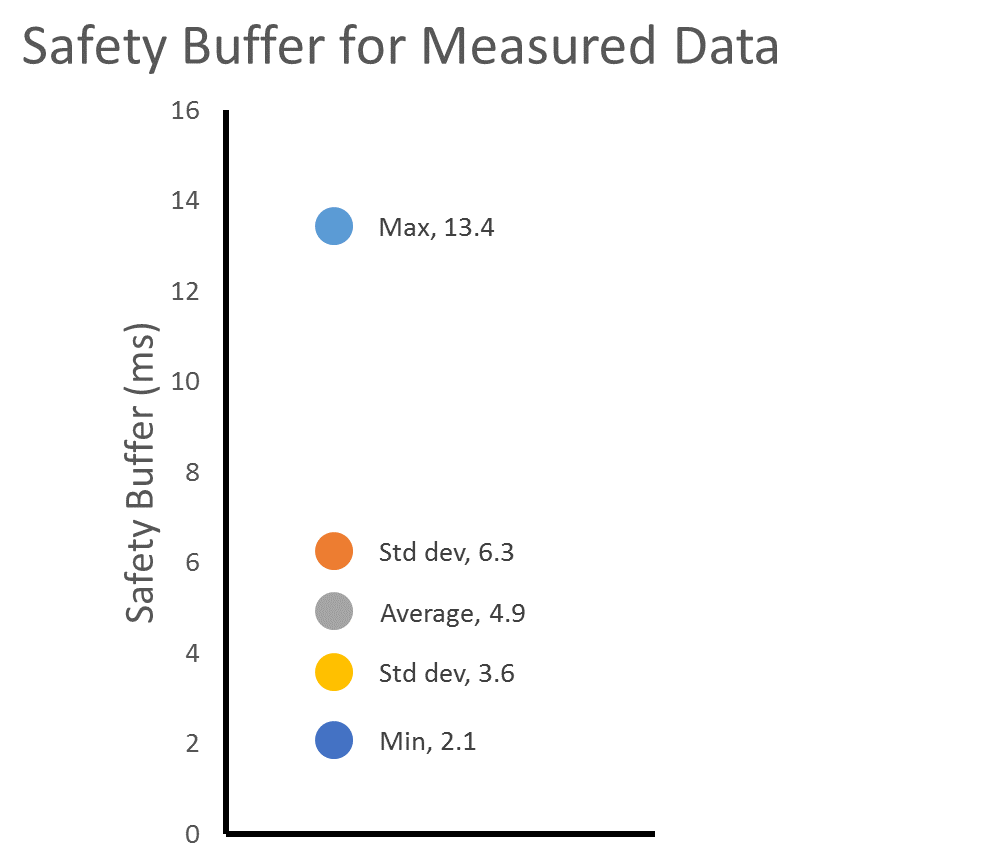
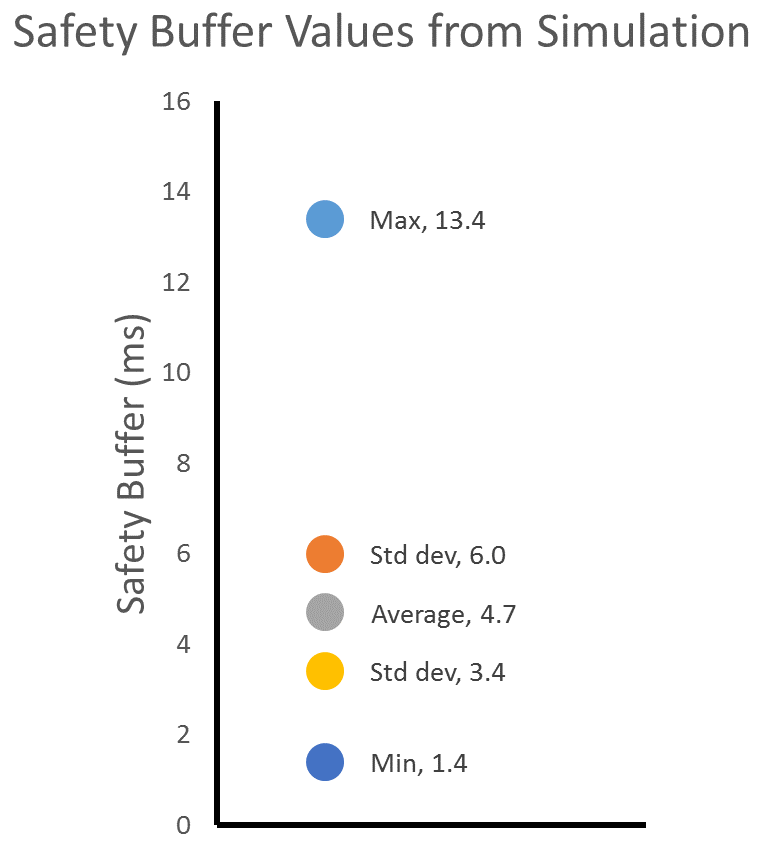
spellchecking

diff --git a/FinalReport/introduction.tex b/FinalReport/introduction.tex
@@ -29,7 +29,7 @@ the following complications:
   of a cluster at any specific time as Ceph is currently implemented.
 \end{itemize}
 
-Our snapshotting algorithm, called the Consistent Asynchronous Snapshotting via Time Syncrhonization (CASTS), was to use a time synchronization protocol that provides
+Our snapshotting algorithm, called the Consistent Asynchronous Snapshotting via Time Synchronization (CASTS), was to use a time synchronization protocol that provides
 uncertainty bounds on the error for each node's clock in the cluster. These
 uncertainty bounds can be used to create brief periods at each node where writes are 
 held, called freeze windows. By relating the freeze windows to the uncertainty 

diff --git a/FinalReport/data-results.tex b/FinalReport/data-results.tex
@@ -295,6 +295,10 @@ approximates a normal distribution.
 %% TODO: once we finalize the graphs, we should add some commentary about 
 %%       the values we're seeing actually mean.
 
+We used the results from the simulations to generate graphs that display the
+maximum uncertainty value and the mean of the uncertainty values. In these
+graphs, we vary two of the parameters and hold the third constant. 
+
 The maximum uncertainty value observed during a simulation is strongly
 affected by the mean network latency. The shape of the latency
 distribution has a much weaker effect on the maximum uncertainty

diff --git a/FinalReport/problem.tex b/FinalReport/problem.tex
@@ -117,7 +117,7 @@ each clock uses its own clock when determining the timestamp of an
 event. Using the timestamps by themselves will not allow us to get a
 total ordering of the events, since the clocks would slowly become
 more and more desynchronized, until the clocks are no longer reliable
-ways to distinguish when events occured on different nodes. An event
+ways to distinguish when events occurred on different nodes. An event
 could receive a later timestamp than an event it caused. If those timestamps 
 were used to take a snapshot, it could create an inconsistent snapshot of our 
 system.

diff --git a/FinalReport/proof.tex b/FinalReport/proof.tex
@@ -88,7 +88,7 @@ uncertainty that NTP provides and discuss what impact CASTS would have
 on a Ceph cluster if NTP is used as the time synchronization
 protocol. However, as long as a time synchronization protocol could
 provide uncertainties in the 5-10 millisecond range, yielding 10-20
-millisecond freeze windows, our algorithm should not impact the
+millisecond freeze windows, CASTS should not impact the
 cluster's performance in a way noticeable to client
 applications~\parencite{Sage}. Also, each node's freeze window is
 offset from other nodes', because each freezes for its own individual

diff --git a/FinalReport/related-work.tex b/FinalReport/related-work.tex
@@ -150,7 +150,7 @@ accuracy. Protocols such as PulseSync take advantage of this
 observation to achieve highly synchronized clocks~\citep{Lenzen2010}.
 
 GPS clocks, by communicating with satellites to compute the time, can act as 
-xnearly perfect time sources. It is
+nearly perfect time sources. It is
 advisable to incorporate a GPS time source (or similarly accurate time
 source) into the master clock of any implementation of CASTS
 in order to achieve tighter uncertainty bounds, though adding this

diff --git a/FinalReport/approach.tex b/FinalReport/approach.tex
@@ -62,7 +62,7 @@ CASTS has four phases:
 \item \emph{Synchronization}
 
   During the synchronization phase, all nodes in the data center run a
-  supported time synchronization protool. All nodes synchronize
+  supported time synchronization protocol. All nodes synchronize
   their internal clocks with a common master
   clock\footnotemark. Messages scheduling future snapshot times may be
   exchanged during this phase. These messages could be incorporated
